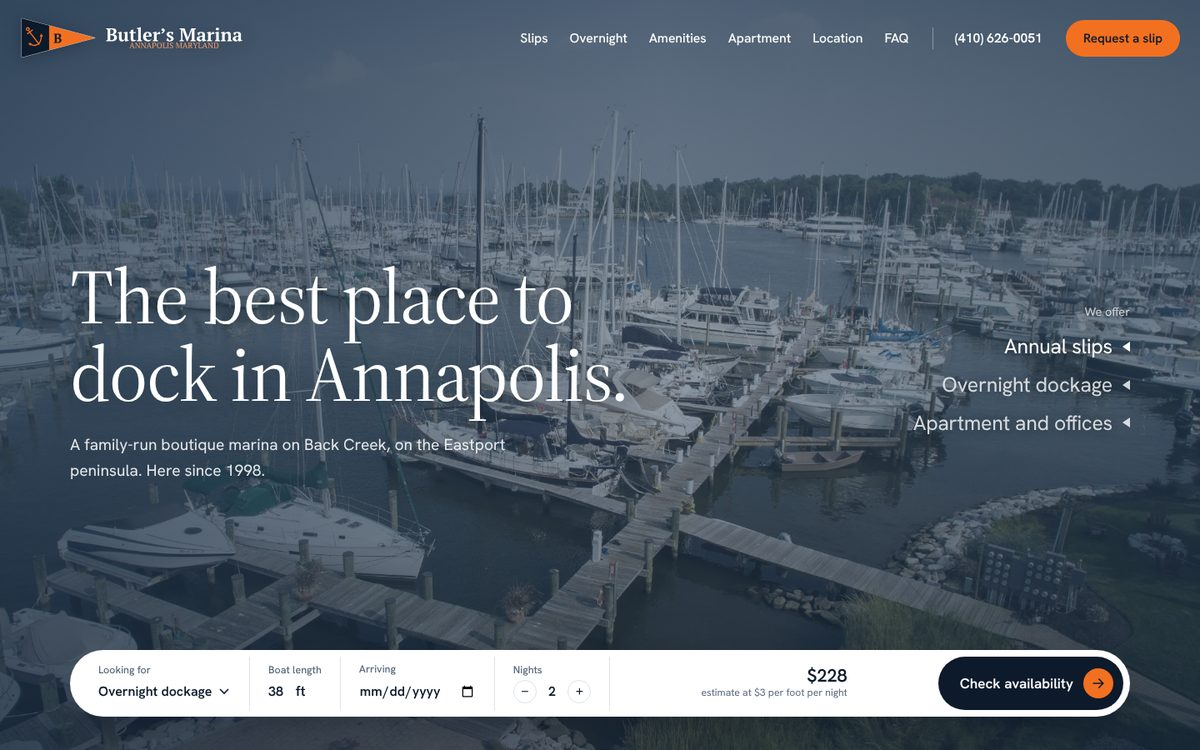
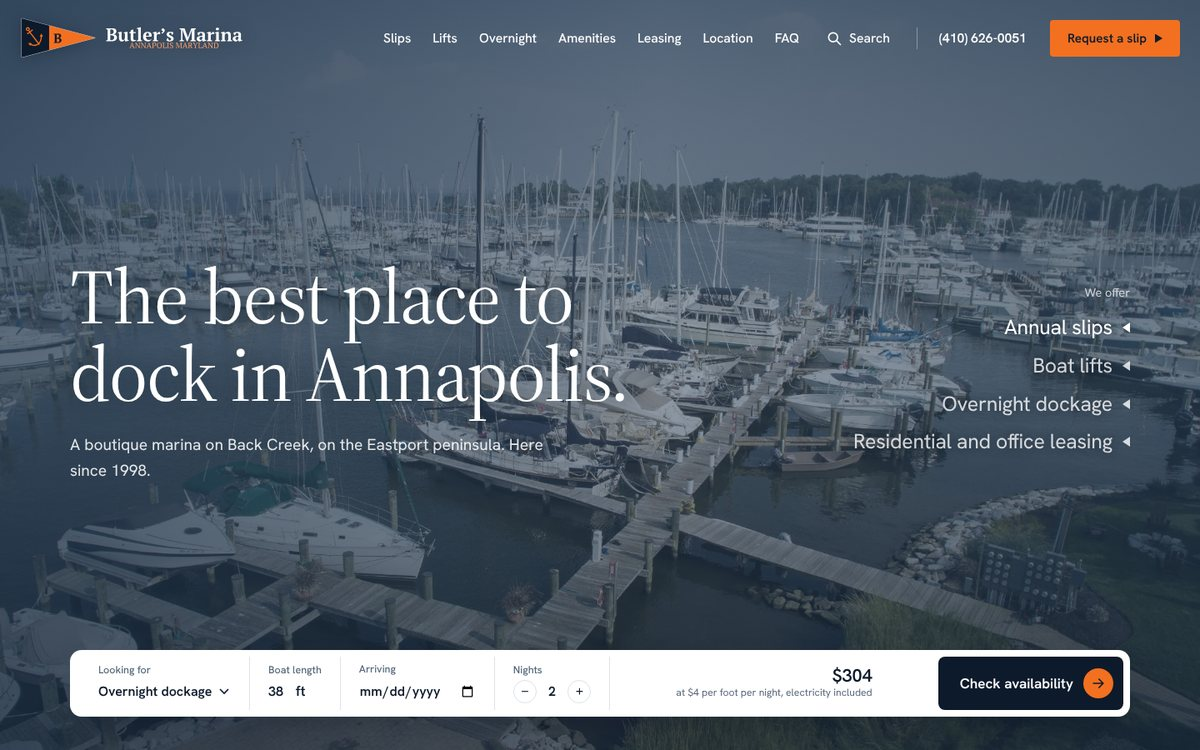
Butler's Marina is live: site link, updated case study, fresh screenshots
Claude-Session: https://claude.ai/code/session_017dyk7HRgZ8p7jv7E7fPkgs

diff --git a/work/butlers/index.html b/work/butlers/index.html
@@ -49,8 +49,8 @@
       <p class="card__meta">Family-run marina · Eastport, Annapolis</p>
       <h1>Butler's Marina<i class="dot">.</i></h1>
       <p class="cs-lead">Lets boaters price and request a slip without picking up the phone.</p>
-      <div class="cs-links"><span class="soon">Launching soon</span><ul class="tags"><li>Website</li><li>Requests</li><li>Live data</li></ul></div>
-      <figure class="frame cs-shot"><span class="bar"><i></i><i></i><i></i><b>Butler's Marina</b></span><img src="../../assets/img/work/butlers-desk.jpg" alt="Butler&#x27;s Marina homepage on a laptop" width="1440" height="900"></figure>
+      <div class="cs-links"><a class="btn" href="https://butlersmarinaannapolis.com" target="_blank" rel="noopener">Visit butlersmarinaannapolis.com</a><ul class="tags"><li>Website</li><li>Requests</li><li>Maps</li><li>Move off WordPress</li></ul></div>
+      <figure class="frame cs-shot"><span class="bar"><i></i><i></i><i></i><b>butlersmarinaannapolis.com</b></span><img src="../../assets/img/work/butlers-desk.jpg" alt="Butler&#x27;s Marina homepage on a laptop" width="1440" height="900"></figure>
     </div>
   </section>
 
@@ -58,13 +58,13 @@
     <div class="wrap cs-ask__in">
       <div>
         <h2>The ask<i class="dot">.</i></h2>
-        <p>Butler&#x27;s Marina is my family&#x27;s marina on Back Creek, here since 1998. The new site answers a boater&#x27;s first two questions, what it costs and whether there is room, before they ever dial.</p>
+        <p>Butler&#x27;s Marina is my family&#x27;s marina on Back Creek, here since 1998. The new site answers a boater&#x27;s first questions before they ever dial: what it costs, where their slip sits and how far dinner is from the dock.</p>
       </div>
       <dl class="glance">
         <div><dt>Client</dt><dd>Family-run marina</dd></div>
         <div><dt>Where</dt><dd>Eastport, Annapolis</dd></div>
         <div><dt>Site type</dt><dd>The Front Desk</dd></div>
-        <div><dt>Status</dt><dd>Launching soon</dd></div>
+        <div><dt>Status</dt><dd>Live</dd></div>
       </dl>
     </div>
   </section>
@@ -72,7 +72,7 @@
   <section class="cs-built">
     <div class="wrap">
       <h2>What I built<i class="dot">.</i></h2>
-      <div class="built"><div class="built__item"><h3>Instant estimate</h3><p>Pick the dockage type, boat length and nights, and the price updates as you go.</p></div><div class="built__item"><h3>One request form</h3><p>Slips, overnight dockage, the apartment and office space, all in one form.</p></div><div class="built__item"><h3>Live conditions</h3><p>Tide, water temperature and wind from the NOAA station in Annapolis.</p></div><div class="built__item"><h3>Nothing lost</h3><p>Old links from the previous site still land in the right place, including the text messaging policy pages.</p></div></div>
+      <div class="built"><div class="built__item"><h3>Instant estimate</h3><p>Pick overnight dockage, boat length and nights, and the price updates as you go. The button opens the request form already filled in.</p></div><div class="built__item"><h3>Dock map</h3><p>Every slip on the docks, traced from the marina's plat. Tap a slip to see where it sits and ask about it, or show only the slips with lifts.</p></div><div class="built__item"><h3>Walking map</h3><p>Restaurants, shops and landmarks around Eastport and downtown. Pick one and the map draws the walking route from the dock, with the time.</p></div><div class="built__item"><h3>One request form</h3><p>Slips, lifts, overnight dockage, apartments and offices, with a waiting list option. Each request type asks only for what the office needs to reply.</p></div><div class="built__item"><h3>Search</h3><p>A search box on every page and a filter on the FAQ, so "electric" or "winter" goes straight to the answer.</p></div><div class="built__item"><h3>Nothing lost</h3><p>Old links from the previous site still land in the right place, including the text messaging policy pages.</p></div></div>
       
     </div>
   </section>
@@ -82,9 +82,9 @@
       <figure class="phone"><img src="../../assets/img/work/butlers-mob.jpg" alt="Butler&#x27;s Marina on a phone" loading="lazy" width="600" height="1260"></figure>
       <div>
         <h2>Built for phones first<i class="dot">.</i></h2>
-        <p>On phones, Call, Directions and Request a slip stay pinned to the bottom of the screen.</p>
+        <p>On phones, Call, Directions and Request a slip stay pinned to the bottom of the screen. The dock map turns tall, so the main pier runs top to bottom.</p>
         <h2 class="cs-phone__h2">Behind the scenes<i class="dot">.</i></h2>
-        <ol class="behind"><li><h3>A boater sends a request</h3><p>It saves to the marina&#x27;s list and is emailed to the office the moment it comes in.</p></li><li><h3>The conditions update</h3><p>Tide and weather refresh on their own, so nobody has to touch the site.</p></li></ol>
+        <ol class="behind"><li><h3>A boater sends a request</h3><p>It lands in the Google Sheet the marina team already uses, and an alert reaches the office inbox the moment it comes in.</p></li><li><h3>They get a confirmation</h3><p>An email lists what they sent, with the marina's address and phone. Texts and marina news are separate boxes, never required.</p></li><li><h3>Spam stays out</h3><p>A quiet check under the form stops bots before anything reaches the sheet.</p></li></ol>
       </div>
     </div>
   </section>

diff --git a/work/index.html b/work/index.html
@@ -114,8 +114,8 @@
           <p class="card__meta">Family-run marina · Eastport, Annapolis</p>
           <h3>Butler&#x27;s Marina</h3>
           <p class="card__lead">Lets boaters price and request a slip without picking up the phone.</p>
-          <ul class="feats"><li>Instant price estimate for overnight dockage</li><li>Slip, apartment and office requests in one form, emailed to the office the moment they come in</li><li>Live tide, water temperature and wind</li><li>Old links from the previous site still land in the right place</li></ul>
-          <div class="card__links"><a class="link" href="../work/butlers/">Read the case study</a><span class="soon">Launching soon</span></div>
+          <ul class="feats"><li>Instant price estimate for overnight dockage</li><li>Tap any slip on the dock map to ask about it</li><li>Walking routes from the dock to Eastport and downtown, with times</li><li>Slip, lift, overnight and leasing requests in one form, sent to the office the moment they come in</li></ul>
+          <div class="card__links"><a class="link" href="../work/butlers/">Read the case study</a><a class="link link--quiet" href="https://butlersmarinaannapolis.com" target="_blank" rel="noopener">Visit the site ↗</a></div>
         </div>
       </article>
 

diff --git a/index.html b/index.html
@@ -95,8 +95,8 @@
           <p class="card__meta">Family-run marina · Eastport, Annapolis</p>
           <h3>Butler&#x27;s Marina</h3>
           <p class="card__lead">Lets boaters price and request a slip without picking up the phone.</p>
-          <ul class="feats"><li>Instant price estimate for overnight dockage</li><li>Slip, apartment and office requests in one form, emailed to the office the moment they come in</li><li>Live tide, water temperature and wind</li><li>Old links from the previous site still land in the right place</li></ul>
-          <div class="card__links"><a class="link" href="work/butlers/">Read the case study</a><span class="soon">Launching soon</span></div>
+          <ul class="feats"><li>Instant price estimate for overnight dockage</li><li>Tap any slip on the dock map to ask about it</li><li>Walking routes from the dock to Eastport and downtown, with times</li><li>Slip, lift, overnight and leasing requests in one form, sent to the office the moment they come in</li></ul>
+          <div class="card__links"><a class="link" href="work/butlers/">Read the case study</a><a class="link link--quiet" href="https://butlersmarinaannapolis.com" target="_blank" rel="noopener">Visit the site ↗</a></div>
         </div>
       </article>
 
